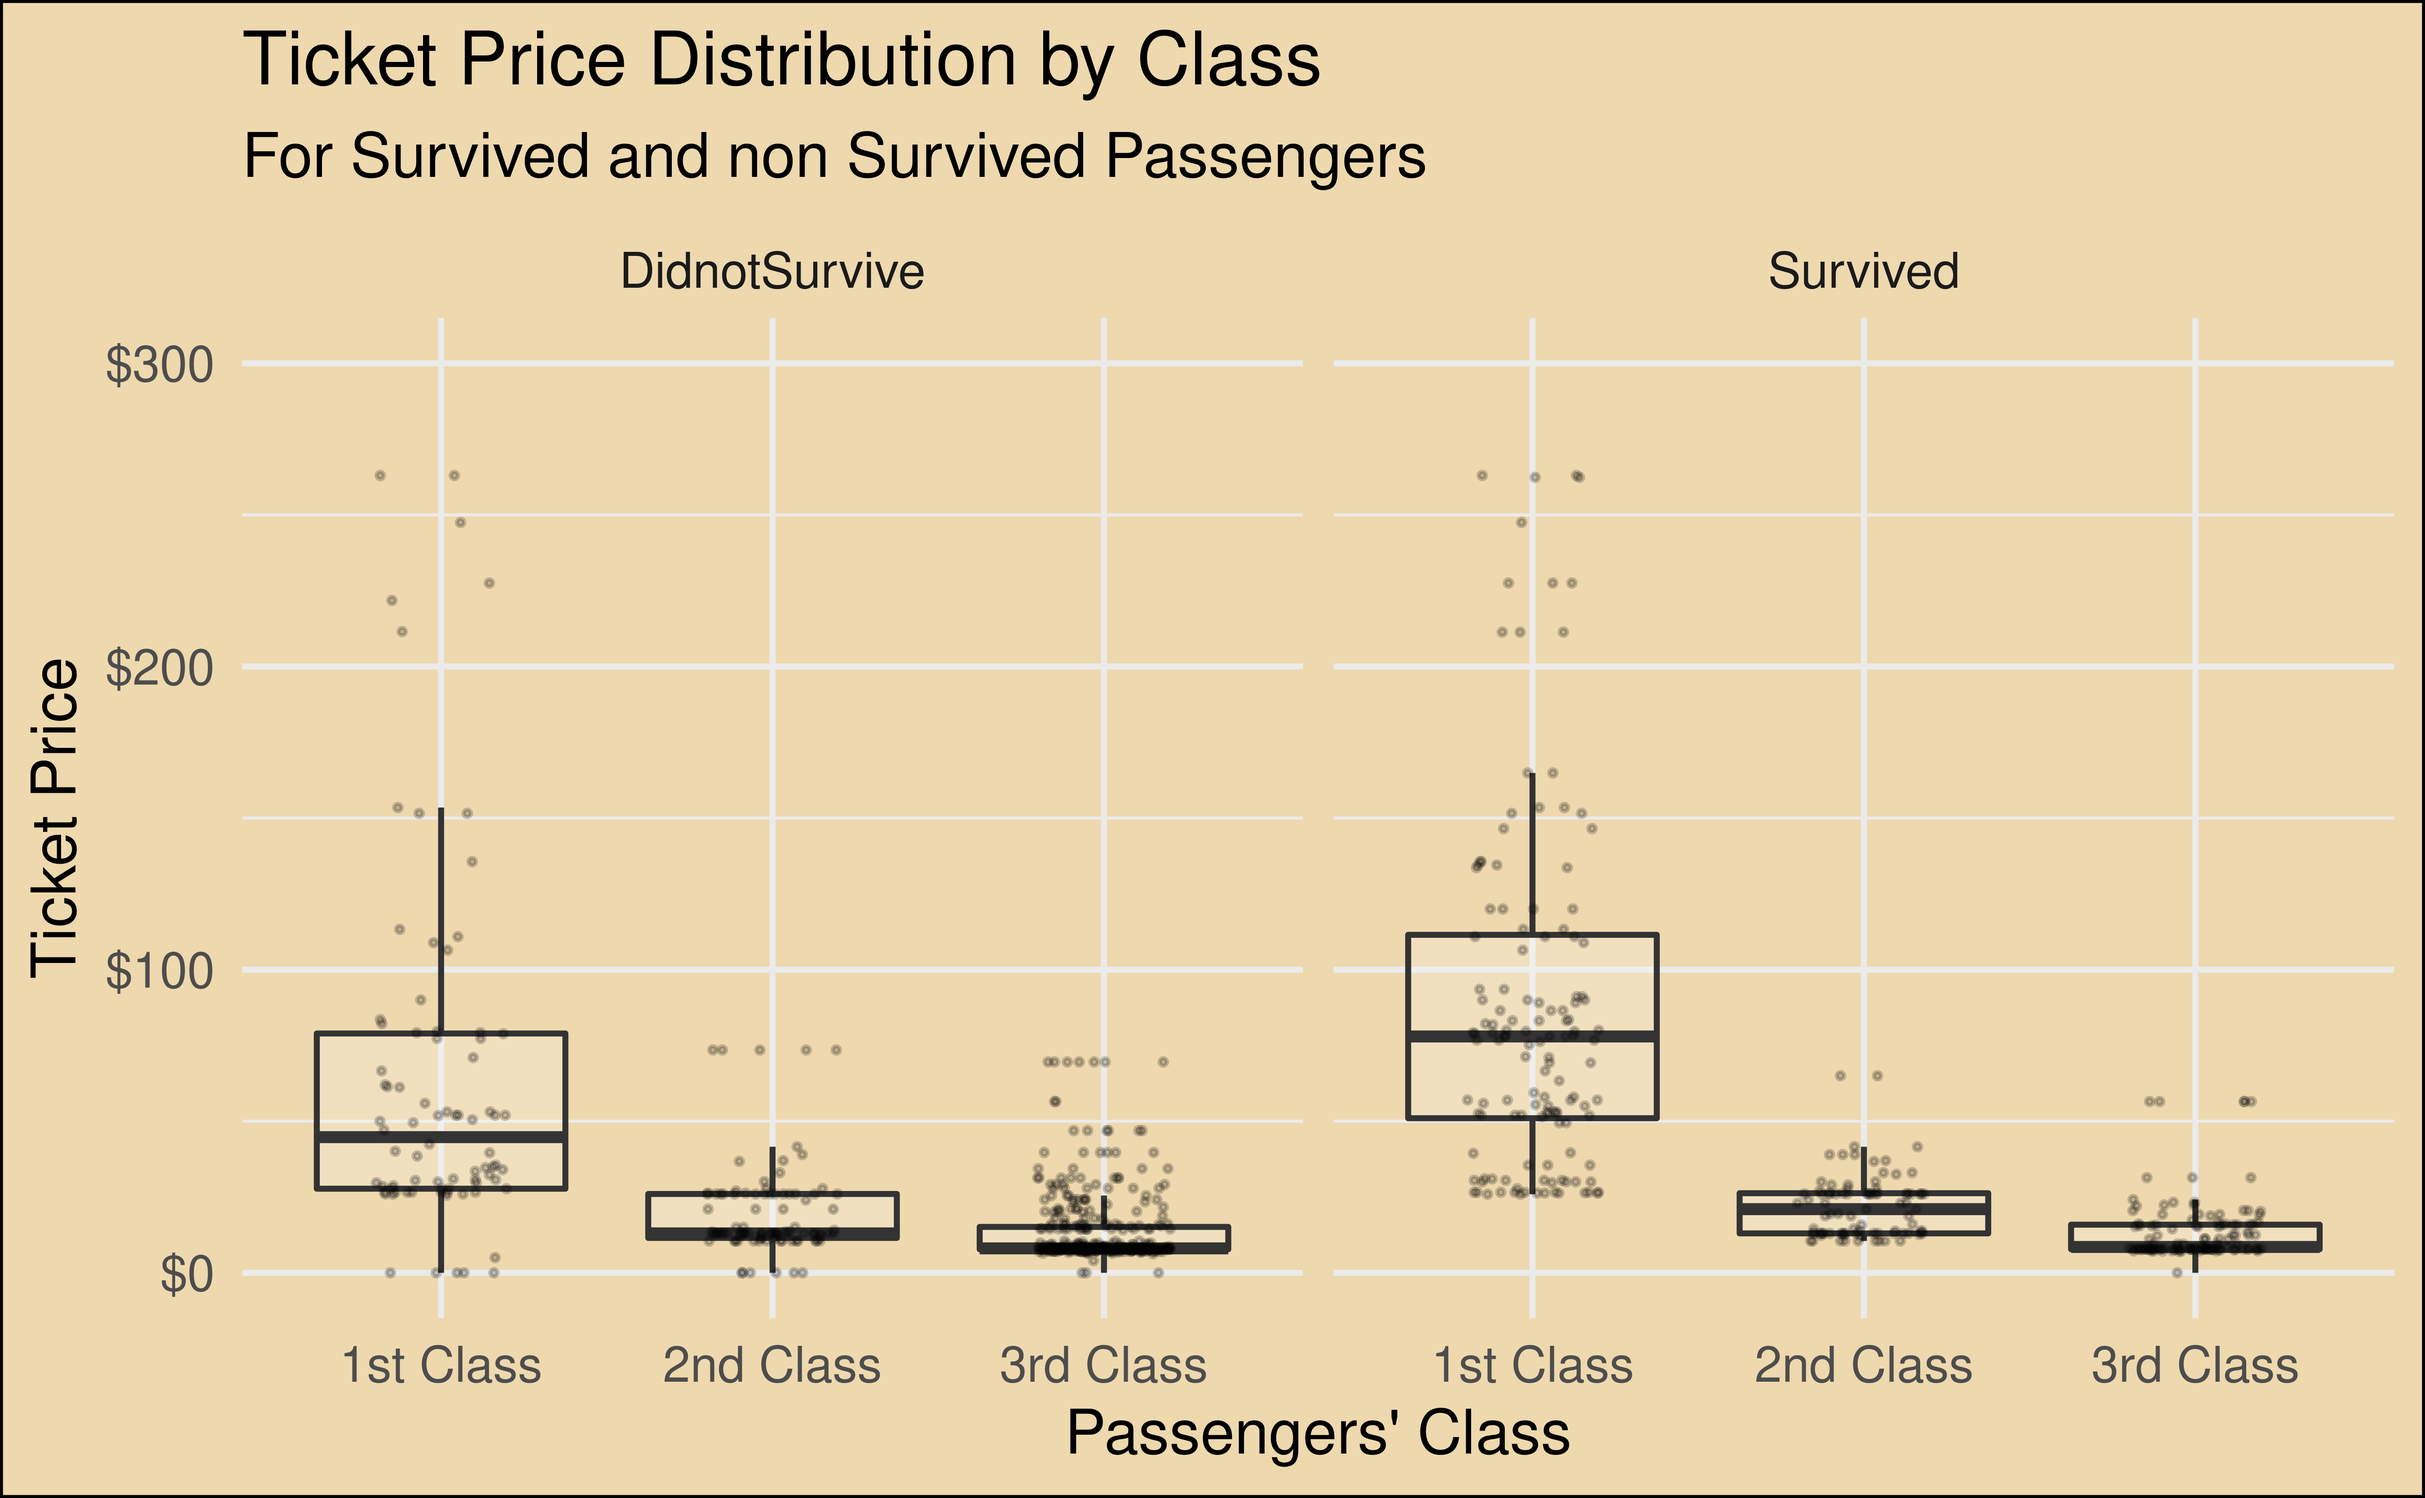
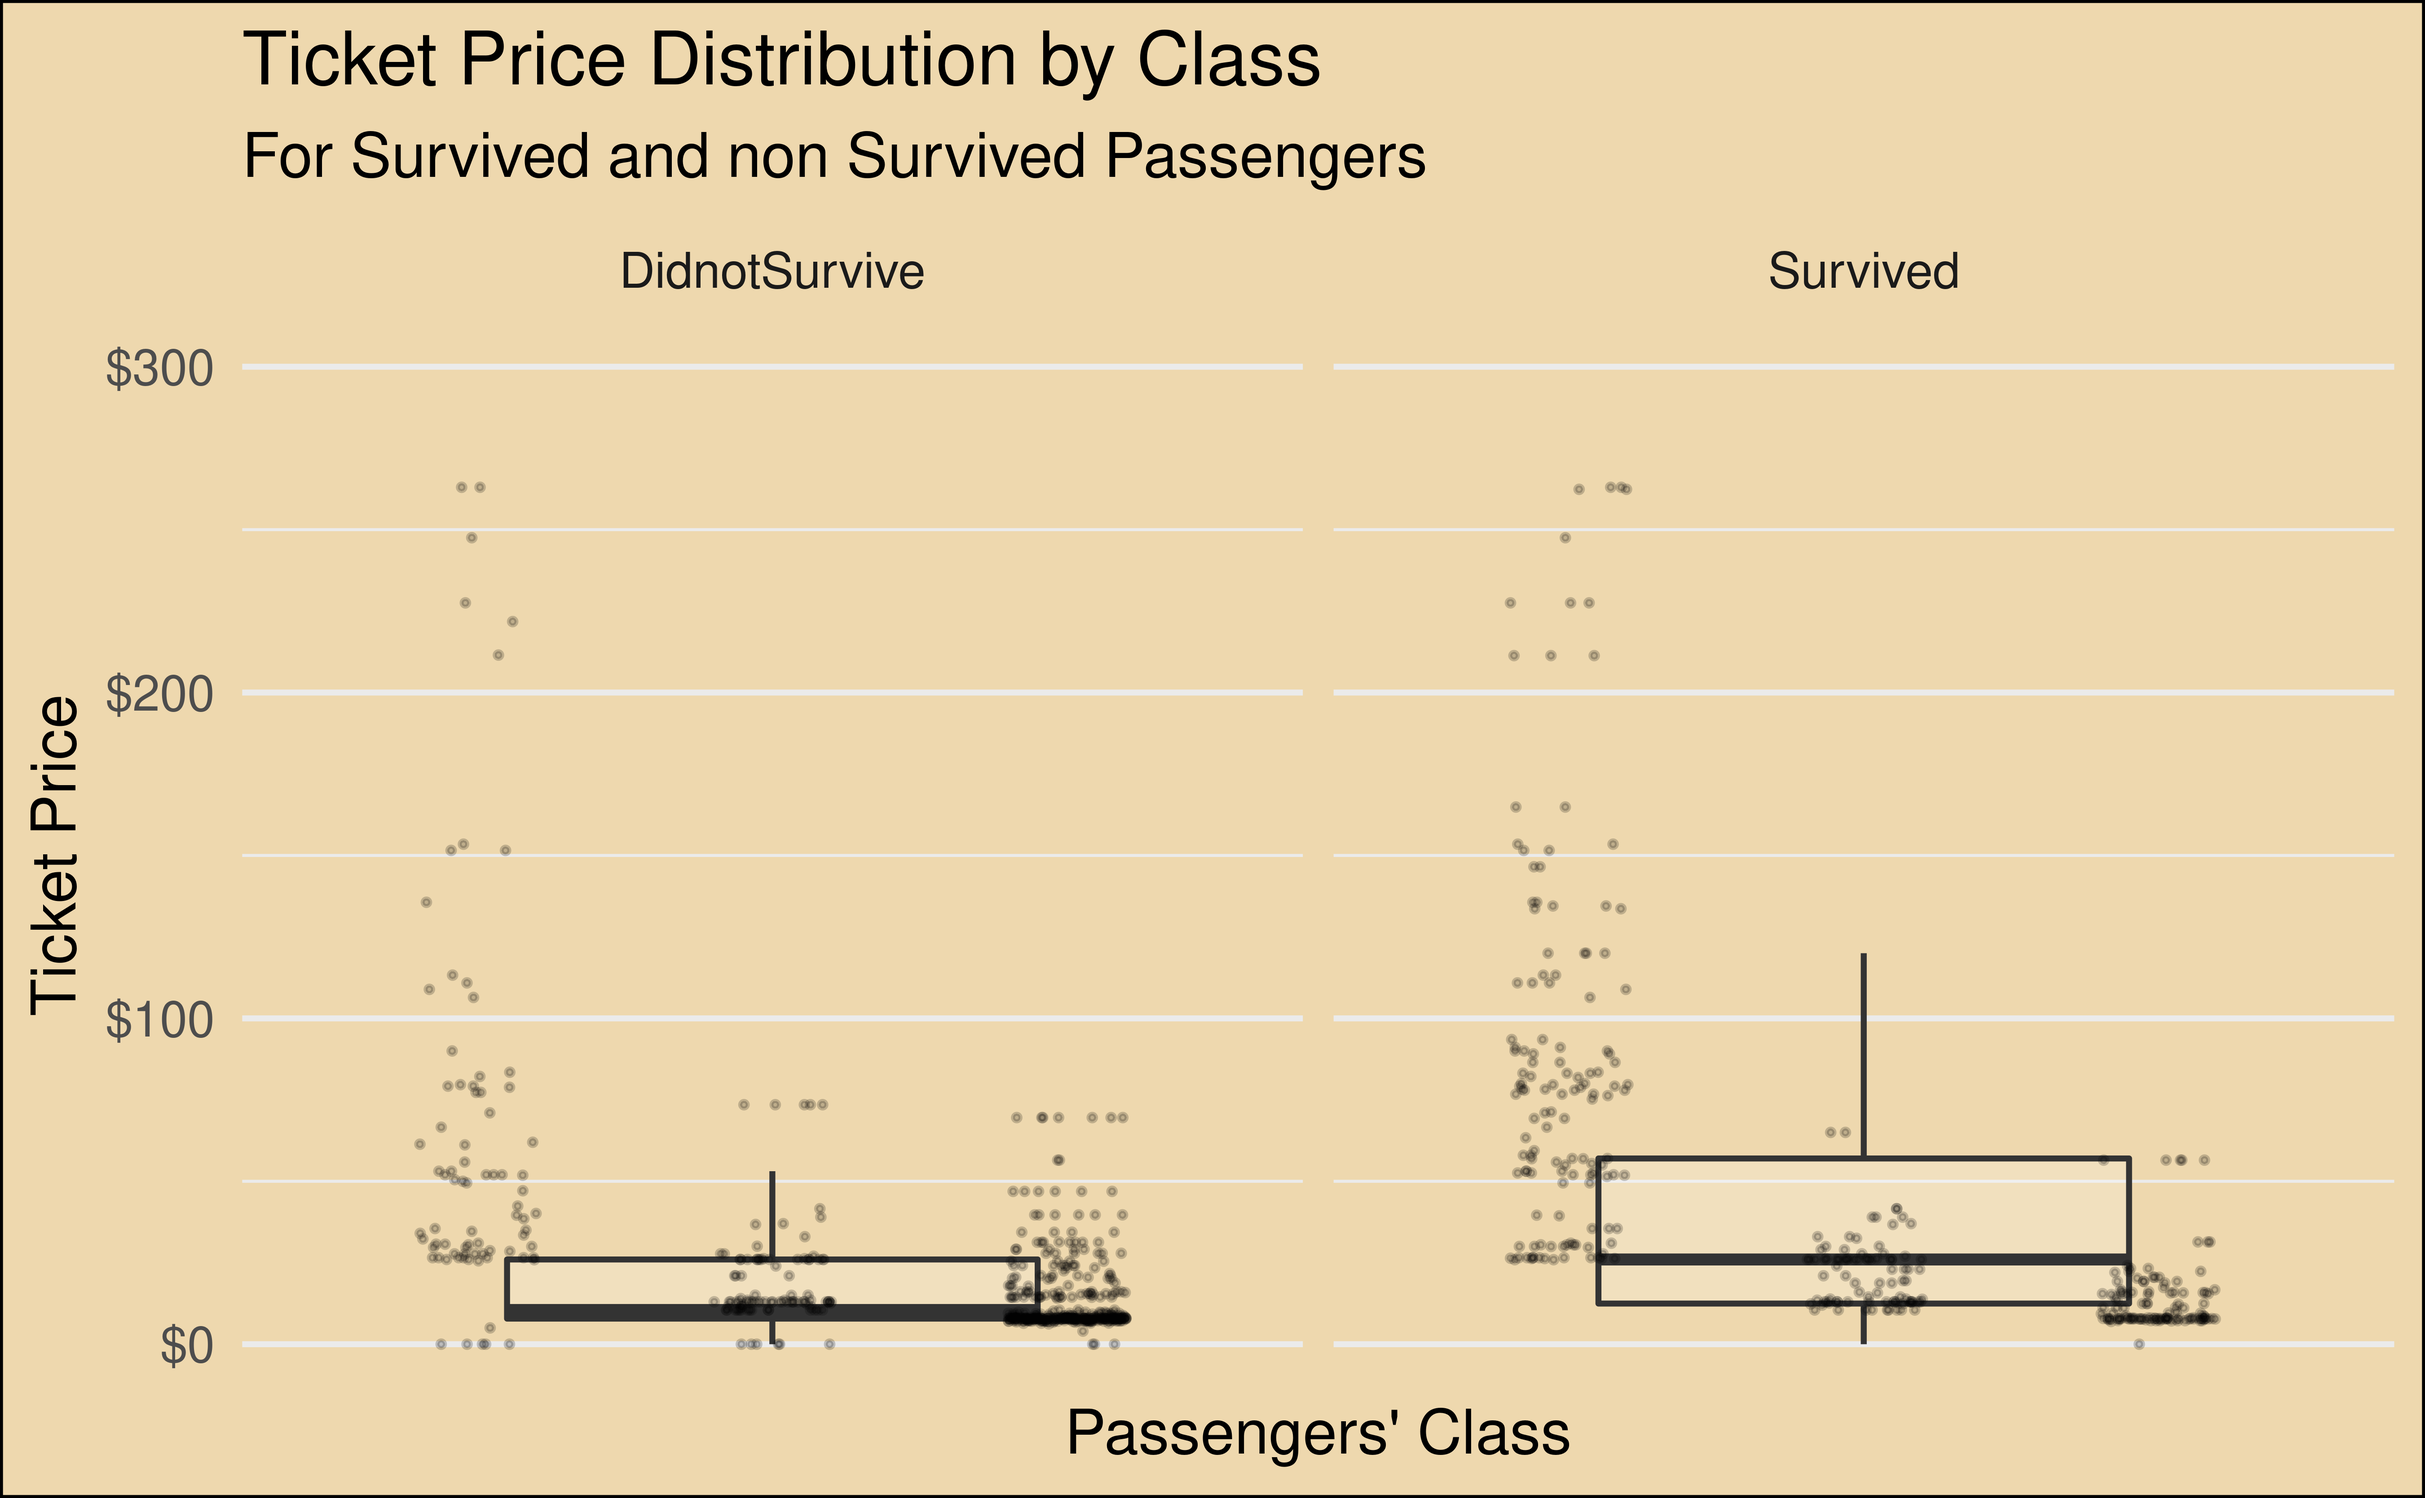
started writing write-up in readme.rmd (250 words out of 750)

diff --git a/presentation/presentation.html b/presentation/presentation.html
@@ -22,37 +22,37 @@ class: center, middle, inverse, title-slide
 
 ---
 
+ 
 
+ 
 
+ 
 
+ 
 
-
-
-
-
-
+ 
 #Table of Contents
 - Background information
 - Introduction to data set
 - Data analysis
-  - Age vs. Survival
-  - Gender vs. Survival
-  - Class vs. Survival
+ - Age vs. Survival
+ - Gender vs. Survival
+ - Class vs. Survival
 - Modelling
 - Recreation of historic plot
 - Bibliography
-
+ 
 ---
 "Touted as the ultimate in transatlantic travel and said to be “unsinkable”, the Titanic collided with an iceberg on 14 April 1912 on her maiden voyage and sank shortly thereafter on 15 April, killing 1502 out of 2224 passengers and crew." [1]
-
+ 
 We want to see 
-
+ 
 ### If and how the chance of survival of Titanic passengers is related to different attributes of the passengers 
-
+ 
 ---
 # Data set
 * The data set comes from the Awesome Public Data Sets on GitHub[2]
-
+ 
 * There are 12 variables and 891 observations in this data set. 
 --
 .left[
@@ -63,33 +63,33 @@ We want to see
 - `Pclass`: Passenger class (1 = 1st, 2 = 2nd, 3 = 3rd) 
 - `Fare`: Passenger fare (i.e. cost of ticket in USD)
 - `Embarked`: Port of embarkation (C = Cherbourg, Q = Queenstown, S = Southampton)[3] ]
-
+ 
 ---
 class: inverse, middle, center
 # Gender and Survival
-
+ 
 ---
-
+ 
 # Introduction
 * During the times when the sinking of the Titanic accident occurred (1912), in the spirit of chivalry women (and children) were saved first. This was historically recorded as orders from the captain of the Titanic.
 --
-
-
-
+ 
+ 
+ 
 * Women have higher survival rate than men. 
-
+ 
 ---
-
+ 
 # Visualization
 .pull-left[
 - Use gender as the predictor variable and frequency displayed in terms of colors showing survivals or not as the outcome variable.
 ]
-
+ 
 .pull-right[
 &lt;img src="presentation_files/figure-html/gender-survival-1.png" width="100%" /&gt;
 ]
-
-
+ 
+ 
 ---
 # Summary
 .pull-left[
@@ -105,80 +105,103 @@ class: inverse, middle, center
 ```
 ]
 ---
-
+ 
 class: inverse, middle, center
 # Age and Survival
 ---
 # Introduction
 - give priority to saving infants and children when it comes to providing life saving equipment
-
+ 
 - physical abilities
 ---
 # Data analysis 
 .pull-left[
 &lt;img src="presentation_files/figure-html/age-survival-1.png" width="90%" /&gt;
 ]
-
-
+ 
+ 
 .pull_right[
-
+ 
 - Predicted variable are "Age" and "Frequency" as the outcome variable. 
 - generally, the younger the more people survived.
 ]
-
 ---
-
-
+ 
+ 
 .pull_left
 
-
+ 
 &lt;img src="presentation_files/figure-html/unnamed-chunk-1-1.png" width="80%" /&gt;
-
----
-
-class: inverse, middle, center
-# Class/ Port/ Fare vs Survival
-<<<<<<< HEAD
----
-
-The class of the passenger can be considered to be a measure of their socio-economic status: based on our knowledge on the Titanic disaster we expect to find that the higher the class of the passenger, the higher their survival rate.
-=======
----
-
-The class of the passenger can be considered to be a measure of their socio-economic status: based on our knowledge on the Titanic disaster we expect to find that the higher the class of the passenger, the higher their survival rate.
-
+ 
+--- 
+ 
+class: inverse, middle, center 
+# Is wealth associated with passengers' survival rate ? 
+--- 
+# Ticket Price &amp; Passengers' Class  
+ 
+.pull-left[ 
+&lt;img src="presentation_files/figure-html/fare-boxplot -1.png" width="1200" /&gt;
+] 
+ 
+.pull-right[  
+&lt;table&gt;
+ &lt;thead&gt;
+  &lt;tr&gt;
+   &lt;th style="text-align:left;"&gt; Passenger_Class &lt;/th&gt;
+   &lt;th style="text-align:left;"&gt; Survived &lt;/th&gt;
+   &lt;th style="text-align:right;"&gt; Median_Price_USD &lt;/th&gt;
+  &lt;/tr&gt;
+ &lt;/thead&gt;
+&lt;tbody&gt;
+  &lt;tr&gt;
+   &lt;td style="text-align:left;"&gt; 1st Class &lt;/td&gt;
+   &lt;td style="text-align:left;"&gt; No &lt;/td&gt;
+   &lt;td style="text-align:right;"&gt; 44.7500 &lt;/td&gt;
+  &lt;/tr&gt;
+  &lt;tr&gt;
+   &lt;td style="text-align:left;"&gt; 1st Class &lt;/td&gt;
+   &lt;td style="text-align:left;"&gt; Yes &lt;/td&gt;
+   &lt;td style="text-align:right;"&gt; 77.9583 &lt;/td&gt;
+  &lt;/tr&gt;
+  &lt;tr&gt;
+   &lt;td style="text-align:left;"&gt; 2nd Class &lt;/td&gt;
+   &lt;td style="text-align:left;"&gt; No &lt;/td&gt;
+   &lt;td style="text-align:right;"&gt; 13.0000 &lt;/td&gt;
+  &lt;/tr&gt;
+  &lt;tr&gt;
+   &lt;td style="text-align:left;"&gt; 2nd Class &lt;/td&gt;
+   &lt;td style="text-align:left;"&gt; Yes &lt;/td&gt;
+   &lt;td style="text-align:right;"&gt; 21.0000 &lt;/td&gt;
+  &lt;/tr&gt;
+  &lt;tr&gt;
+   &lt;td style="text-align:left;"&gt; 3rd Class &lt;/td&gt;
+   &lt;td style="text-align:left;"&gt; No &lt;/td&gt;
+   &lt;td style="text-align:right;"&gt; 8.0500 &lt;/td&gt;
+  &lt;/tr&gt;
+  &lt;tr&gt;
+   &lt;td style="text-align:left;"&gt; 3rd Class &lt;/td&gt;
+   &lt;td style="text-align:left;"&gt; Yes &lt;/td&gt;
+   &lt;td style="text-align:right;"&gt; 8.5167 &lt;/td&gt;
+  &lt;/tr&gt;
+&lt;/tbody&gt;
+&lt;/table&gt;
+]  
+ 
+--- 
+ 
+class: middle, center 
+ 
 &lt;img src="presentation_files/figure-html/class-survival -1.png" width="80%" /&gt;
+ 
+--- 
+class:middle, center 
+ 
 
----
-
-```
-## Warning: Continuous x aesthetic -- did you forget aes(group=...)?
-```
->>>>>>> 8acfb5e02f6350d89d431e0bd95abf0d32e11f08
-
-&lt;img src="presentation_files/figure-html/fare-survival -1.png" width="80%" /&gt;
-
----
-<<<<<<< HEAD
-&lt;img src="presentation_files/figure-html/fare-survival -1.png" width="80%" /&gt;
-
----
-=======
->>>>>>> 8acfb5e02f6350d89d431e0bd95abf0d32e11f08
-
-
-
-
-
-
-
-&lt;img src="presentation_files/figure-html/unnamed-chunk-4-1.png" width="80%" /&gt;
-
----
-&lt;img src="presentation_files/figure-html/unnamed-chunk-5-1.png" width="80%" /&gt;
----
-
-&lt;img src="presentation_files/figure-html/unnamed-chunk-6-1.png" width="80%" /&gt;
+ 
+ 
+&lt;img src="presentation_files/figure-html/unnamed-chunk-2-1.png" width="80%" /&gt;
+ 
 
 ---
 class: inverse, center, middle

diff --git a/README.md b/README.md
@@ -4,23 +4,35 @@ by XEM Team
 
 ## Summary
 
-Write-up of your project and findings go here. Think of this as the text
-of your presentation. The length should be roughly 5 minutes when read
-out loud. Although pacing varies, a 5-minute speech is roughly 750
-words. To use the word count addin, select the text you want to count
-the words of (probably this is the Summary section of this document, go
-to Addins, and select the `Word count` addin). This addin counts words
-using two different algorithms, but the results should be similar and as
-long as you’re in the ballpark of 750 words, you’re good! The addin will
-ignore code chunks and only count the words in prose.
+The Titanic, said to be “unsinkable”, collided with an iceberg and sank
+on April 1942, killing 1502 out of 2224 passengers and crew. This was
+one of the first accidents of this scale with important data about it
+which was used to then improve maritime safety by passing new policies,
+better safety procedures and construction to avoid another catastrophe.
 
-You can also load your data here and present any analysis results /
-plots, but I strongly urge you to keep that to a minimum (maybe only the
-most important graphic, if you have one you can choose). And make sure
-to hide your code with `echo = FALSE` unless the point you are trying to
-make is about the code itself. Your results with proper output and
-graphics go in your presentation, this space is for a brief summary of
-your project.
+We have decided to analyse original data from the accident and explore
+how different attributes of passengers are related to their survival in
+the catastrophe. These attributes include gender, age and socio-economic
+status (represente by passenger class). We also looked at a range of
+other variables including ticket price and port of embarkation.
+
+We then moved on to build a logistic regression model to try and predict
+survival based on these attributes. We focused on making our
+parsimonious and saw that the explanatory variables which allow for the
+model with better predicted performance are indeed gender, age and
+passenger class.
+
+<img src="https://www.researchgate.net/profile/Michael-Friendly/publication/330916468/figure/fig1/AS:723679168196613@1549549967751/GBrons-chart-of-The-Loss-of-the-Titanic-from-The-Sphere-4-May-1912-Each-subgroup.png" width="30%" style="float:right; padding:10px" />
+
+One of the first visualizations to ever be created with data from the
+Titanic is a graph by graphic artist G. Bron published on the Sphere
+(British newspaper) one week after the accident. His work is an early
+innovation in data display where each subgroup shown by a bar with area
+proportional to the numbers of cases which today can be seen as an early
+mosaic plot. We indeed decided to work on our own mosaic plot to display
+the different factors related to survival in a single plot.
+
+<img src="README_files/figure-gfm/mosaic-plot-readme-1.png" width="60%" style="display: block; margin: auto;" />
 
 ## Presentation
 
